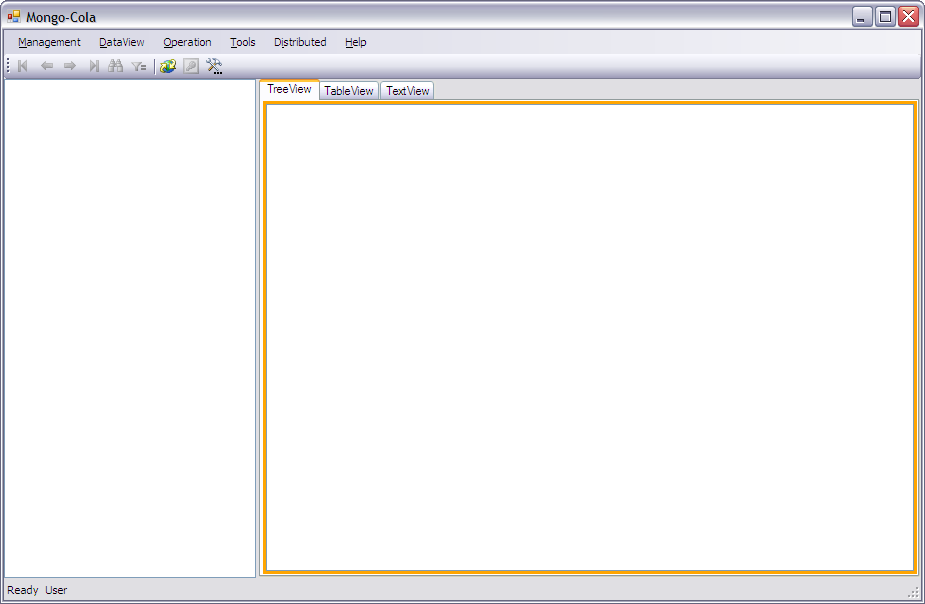
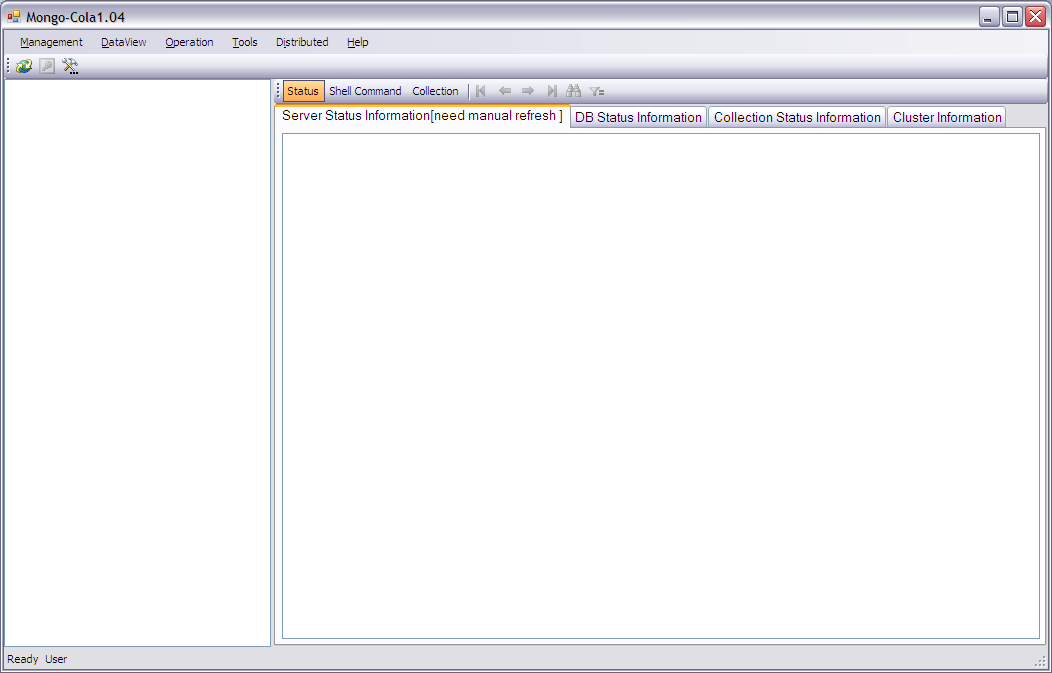
修正了链接一览的BUG。当Port是0的时候，不显示 ：0 字样 将数据导航图标移动到视图工具栏

Changed region(s): [[0.0, 0.0, 1.0, 1.0]]

diff --git a/MagicMongoDBTool/UserGuide/index.htm b/MagicMongoDBTool/UserGuide/index.htm
@@ -121,7 +121,7 @@
             <td>
                 <font size="3" color="black">Thanks MoLing for help me correct this document.
                     <br />
-                    Last Editor：2012-03-06<br />
+                    Last Editor：2012-03-10<br />
                     <br />
                 </font>
             </td>
@@ -134,8 +134,8 @@
         <tr>
             <td />
             <td>
-                <font size="3" color="black">
                     <pre>
+                        <font size="3" color="black">
 ========================================================================
 MongoCola Release Note
 ========================================================================
@@ -144,10 +144,27 @@ Ver 1.00 2011/12/22
 This is the first release of MongoCola.
 
 ========================================================================
-Ver 1.01 2011/12/27
+Release History
+========================================================================
+Ver 1.04 2012/03/10
 
-1.Add Chinese and Japanese Language File
-2.Make Status Form Sizable
+1.Open In Native Editor at Textview
+2.Compact Collection
+3.Advance options for Create a Collection
+4.Show Server Status at Mainform
+5.Add View ToolStrip and move DataNav to View Toolstrip.
+6.Fix display bug at connection list form.
+7.Change Online userguide to local
+
+========================================================================
+Ver 1.03 2012/01/13
+
+1.Set All Form's FontSize to 9.75pt.
+2.Show CommandText After a command is completed.
+3.Clear Navi Record Label After Clear.
+4.Fix a bug when show fileInfo at TableView
+5.Fix a bug when add a connection by use a ConnectionString 
+6.Modify Repair Database Enable condition.
 
 ========================================================================
 Ver 1.02 2012/01/04
@@ -160,21 +177,14 @@ Ver 1.02 2012/01/04
 6.Show Message When exception happend at Element operation.
 
 ========================================================================
-Ver 1.03 2012/01/13
-1.Set All Form's FontSize to 9.75pt.
-2.Show CommandText After a command is completed.
-3.Clear Navi Record Label After Clear.
-4.Fix a bug when show fileInfo at TableView
-5.Fix a bug when add a connection by use a ConnectionString 
-6.Modify Repair Database Enable condition.
+Ver 1.01 2011/12/27
+
+1.Add Chinese and Japanese Language File
+2.Make Status Form Sizable
 
 ========================================================================
-Ver 1.04 2012/03/02
-1.Open In Native Editor at Textview
-2.Compact Collection
-3.Advance options for Create a Collection
+                    </font>
                 </pre>
-                </font>
             </td>
         </tr>
     </table>
@@ -206,7 +216,7 @@ Ver 1.04 2012/03/02
                     <br />
                     <font color="red"><b>In this Tutorial,the mongo executable path is C:\runmongo\bin</b></font><br />
                     <br />
-                    If the mainform shown as below,the application is started up successfully .<br />
+                    If the mainform shown as below,the application is started up successfully .<br /><br />
                     <img src="images/Main_Empty.PNG" alt="" /><br />
                     <br />
                 </font>
@@ -492,6 +502,27 @@ Ver 1.04 2012/03/02
                             database" menuitem</li>
                     </ul>
                     <img src="images/NewDatabaseInput.PNG" alt="" />
+                    <br />
+                    <br />
+                </font>
+            </td>
+        </tr>
+        <tr>
+            <td align="center">
+                <font size="3" color="black"><b>New Collection</b></font>
+            </td>
+            <td />
+        </tr>
+        <tr>
+            <td />
+            <td>
+                <font size="3">Create a new Collection.You can create collection with advanced options.
+                    <ul>
+                        <li>Menu: Operation -> Database -> new Collection</li>
+                        <li>Contextmenu: Right click the Database treenode to show contextmenu,click the "new
+                            Collection" menuitem</li>
+                    </ul>
+                    <img src="images/NewCollectionInput.PNG" alt="" />
                     <br />
                     <br />
                 </font>

diff --git a/MagicMongoDBTool/Form/frmMain.Designer.cs b/MagicMongoDBTool/Form/frmMain.Designer.cs
@@ -139,13 +139,13 @@ namespace MagicMongoDBTool
             this.panel1 = new System.Windows.Forms.Panel();
             this.panel2 = new System.Windows.Forms.Panel();
             this.panel3 = new System.Windows.Forms.Panel();
-            this.ServerStatusCtl = new MagicMongoDBTool.UserController.ctlServerStatus();
             this.txtCommand = new System.Windows.Forms.TextBox();
             this.ViewtoolStrip = new System.Windows.Forms.ToolStrip();
             this.SvrStatustoolStripButton = new System.Windows.Forms.ToolStripButton();
             this.ShellCommandtoolStripButton = new System.Windows.Forms.ToolStripButton();
             this.CollectiontoolStripButton = new System.Windows.Forms.ToolStripButton();
             this.splitter1 = new System.Windows.Forms.Splitter();
+            this.ServerStatusCtl = new MagicMongoDBTool.UserController.ctlServerStatus();
             this.statusStripMain.SuspendLayout();
             this.menuStripMain.SuspendLayout();
             this.tabDataShower.SuspendLayout();
@@ -519,52 +519,52 @@ namespace MagicMongoDBTool
             // CreateMongoCollectionToolStripMenuItem
             // 
             this.CreateMongoCollectionToolStripMenuItem.Name = "CreateMongoCollectionToolStripMenuItem";
-            this.CreateMongoCollectionToolStripMenuItem.Size = new System.Drawing.Size(165, 22);
-            this.CreateMongoCollectionToolStripMenuItem.Text = "Add DataCollection";
+            this.CreateMongoCollectionToolStripMenuItem.Size = new System.Drawing.Size(154, 22);
+            this.CreateMongoCollectionToolStripMenuItem.Text = "New Collection";
             this.CreateMongoCollectionToolStripMenuItem.Click += new System.EventHandler(this.CreateMongoCollectionToolStripMenuItem_Click);
             // 
             // DelMongoDBToolStripMenuItem
             // 
             this.DelMongoDBToolStripMenuItem.Name = "DelMongoDBToolStripMenuItem";
-            this.DelMongoDBToolStripMenuItem.Size = new System.Drawing.Size(165, 22);
+            this.DelMongoDBToolStripMenuItem.Size = new System.Drawing.Size(154, 22);
             this.DelMongoDBToolStripMenuItem.Text = "Del Database";
             this.DelMongoDBToolStripMenuItem.Click += new System.EventHandler(this.DelMongoDBToolStripMenuItem_Click);
             // 
             // toolStripMenuItem5
             // 
             this.toolStripMenuItem5.Name = "toolStripMenuItem5";
-            this.toolStripMenuItem5.Size = new System.Drawing.Size(162, 6);
+            this.toolStripMenuItem5.Size = new System.Drawing.Size(151, 6);
             // 
             // AddUserToolStripMenuItem
             // 
             this.AddUserToolStripMenuItem.Name = "AddUserToolStripMenuItem";
-            this.AddUserToolStripMenuItem.Size = new System.Drawing.Size(165, 22);
+            this.AddUserToolStripMenuItem.Size = new System.Drawing.Size(154, 22);
             this.AddUserToolStripMenuItem.Text = "Add User";
             this.AddUserToolStripMenuItem.Click += new System.EventHandler(this.AddUserToolStripMenuItem_Click);
             // 
             // RemoveUserToolStripMenuItem
             // 
             this.RemoveUserToolStripMenuItem.Name = "RemoveUserToolStripMenuItem";
-            this.RemoveUserToolStripMenuItem.Size = new System.Drawing.Size(165, 22);
+            this.RemoveUserToolStripMenuItem.Size = new System.Drawing.Size(154, 22);
             this.RemoveUserToolStripMenuItem.Text = "Del User";
             this.RemoveUserToolStripMenuItem.Click += new System.EventHandler(this.RemoveUserToolStripMenuItem_Click);
             // 
             // toolStripMenuItem11
             // 
             this.toolStripMenuItem11.Name = "toolStripMenuItem11";
-            this.toolStripMenuItem11.Size = new System.Drawing.Size(162, 6);
+            this.toolStripMenuItem11.Size = new System.Drawing.Size(151, 6);
             // 
             // evalJSToolStripMenuItem
             // 
             this.evalJSToolStripMenuItem.Name = "evalJSToolStripMenuItem";
-            this.evalJSToolStripMenuItem.Size = new System.Drawing.Size(165, 22);
+            this.evalJSToolStripMenuItem.Size = new System.Drawing.Size(154, 22);
             this.evalJSToolStripMenuItem.Text = "Eval Javascript";
             this.evalJSToolStripMenuItem.Click += new System.EventHandler(this.evalJSToolStripMenuItem_Click);
             // 
             // RepairDBToolStripMenuItem
             // 
             this.RepairDBToolStripMenuItem.Name = "RepairDBToolStripMenuItem";
-            this.RepairDBToolStripMenuItem.Size = new System.Drawing.Size(165, 22);
+            this.RepairDBToolStripMenuItem.Size = new System.Drawing.Size(154, 22);
             this.RepairDBToolStripMenuItem.Text = "Repair Database";
             this.RepairDBToolStripMenuItem.Click += new System.EventHandler(this.RepairDBToolStripMenuItem_Click);
             // 
@@ -949,7 +949,7 @@ namespace MagicMongoDBTool
             this.lstData.HideSelection = false;
             this.lstData.Location = new System.Drawing.Point(3, 3);
             this.lstData.Name = "lstData";
-            this.lstData.Size = new System.Drawing.Size(872, 571);
+            this.lstData.Size = new System.Drawing.Size(576, 518);
             this.lstData.TabIndex = 1;
             this.lstData.UseCompatibleStateImageBehavior = false;
             this.lstData.View = System.Windows.Forms.View.Details;
@@ -971,7 +971,7 @@ namespace MagicMongoDBTool
             // 
             this.lnkFile.AutoSize = true;
             this.lnkFile.Dock = System.Windows.Forms.DockStyle.Right;
-            this.lnkFile.Location = new System.Drawing.Point(766, 3);
+            this.lnkFile.Location = new System.Drawing.Point(445, 3);
             this.lnkFile.Name = "lnkFile";
             this.lnkFile.Size = new System.Drawing.Size(134, 16);
             this.lnkFile.TabIndex = 1;
@@ -986,7 +986,7 @@ namespace MagicMongoDBTool
             this.txtData.Multiline = true;
             this.txtData.Name = "txtData";
             this.txtData.ScrollBars = System.Windows.Forms.ScrollBars.Both;
-            this.txtData.Size = new System.Drawing.Size(872, 571);
+            this.txtData.Size = new System.Drawing.Size(576, 518);
             this.txtData.TabIndex = 0;
             // 
             // trvsrvlst
@@ -1029,14 +1029,6 @@ namespace MagicMongoDBTool
             this.panel3.Name = "panel3";
             this.panel3.Size = new System.Drawing.Size(886, 606);
             this.panel3.TabIndex = 2;
-            // 
-            // ServerStatusCtl
-            // 
-            this.ServerStatusCtl.Location = new System.Drawing.Point(731, 51);
-            this.ServerStatusCtl.Margin = new System.Windows.Forms.Padding(4);
-            this.ServerStatusCtl.Name = "ServerStatusCtl";
-            this.ServerStatusCtl.Size = new System.Drawing.Size(128, 313);
-            this.ServerStatusCtl.TabIndex = 2;
             // 
             // txtCommand
             // 
@@ -1098,6 +1090,14 @@ namespace MagicMongoDBTool
             this.splitter1.Size = new System.Drawing.Size(3, 631);
             this.splitter1.TabIndex = 1;
             this.splitter1.TabStop = false;
+            // 
+            // ServerStatusCtl
+            // 
+            this.ServerStatusCtl.Location = new System.Drawing.Point(731, 51);
+            this.ServerStatusCtl.Margin = new System.Windows.Forms.Padding(4);
+            this.ServerStatusCtl.Name = "ServerStatusCtl";
+            this.ServerStatusCtl.Size = new System.Drawing.Size(128, 313);
+            this.ServerStatusCtl.TabIndex = 2;
             // 
             // frmMain
             // 
@@ -1190,14 +1190,15 @@ namespace MagicMongoDBTool
             ImportDataFromAccessToolStripButton.Click += new System.EventHandler(ImportDataFromAccessToolStripMenuItem_Click);
             OptionToolStripButton.Click += new System.EventHandler(OptionToolStripMenuItem_Click);
 #endif
-            this.toolStripMain.Items.Add(FirstPageToolStripButton);
-            this.toolStripMain.Items.Add(PrePageToolStripButton);
-            this.toolStripMain.Items.Add(NextPageToolStripButton);
-            this.toolStripMain.Items.Add(LastPageToolStripButton);
-            this.toolStripMain.Items.Add(QueryDataToolStripButton);
-            this.toolStripMain.Items.Add(DataNaviToolStripLabel);
-            this.toolStripMain.Items.Add(DataFilterToolStripButton);
-            this.toolStripMain.Items.Add(new ToolStripSeparator());
+            this.ViewtoolStrip.Items.Add(new ToolStripSeparator());
+            this.ViewtoolStrip.Items.Add(FirstPageToolStripButton);
+            this.ViewtoolStrip.Items.Add(PrePageToolStripButton);
+            this.ViewtoolStrip.Items.Add(NextPageToolStripButton);
+            this.ViewtoolStrip.Items.Add(LastPageToolStripButton);
+            this.ViewtoolStrip.Items.Add(QueryDataToolStripButton);
+            this.ViewtoolStrip.Items.Add(DataNaviToolStripLabel);
+            this.ViewtoolStrip.Items.Add(DataFilterToolStripButton);
+
             this.toolStripMain.Items.Add(RefreshToolStripButton);
 #if !MONO
             this.toolStripMain.Items.Add(ImportDataFromAccessToolStripButton);

diff --git a/MagicMongoDBTool/Form/frmConnect.cs b/MagicMongoDBTool/Form/frmConnect.cs
@@ -32,7 +32,7 @@ namespace MagicMongoDBTool
             foreach (ConfigHelper.MongoConnectionConfig item in SystemManager.ConfigHelperInstance.ConnectionList.Values)
             {
                 lstServerce.Items.Add(item.ConnectionName + "@" + 
-                    (item.Host==null?"localhost":item.Host) + ":" + item.Port);
+                    (item.Host==null?"localhost":item.Host) + (item.Port==0?String.Empty:":" + item.Port.ToString()));
             }
             lstServerce.Sorted = true;
             SystemManager.ConfigHelperInstance.SaveToConfigFile("config.xml");
